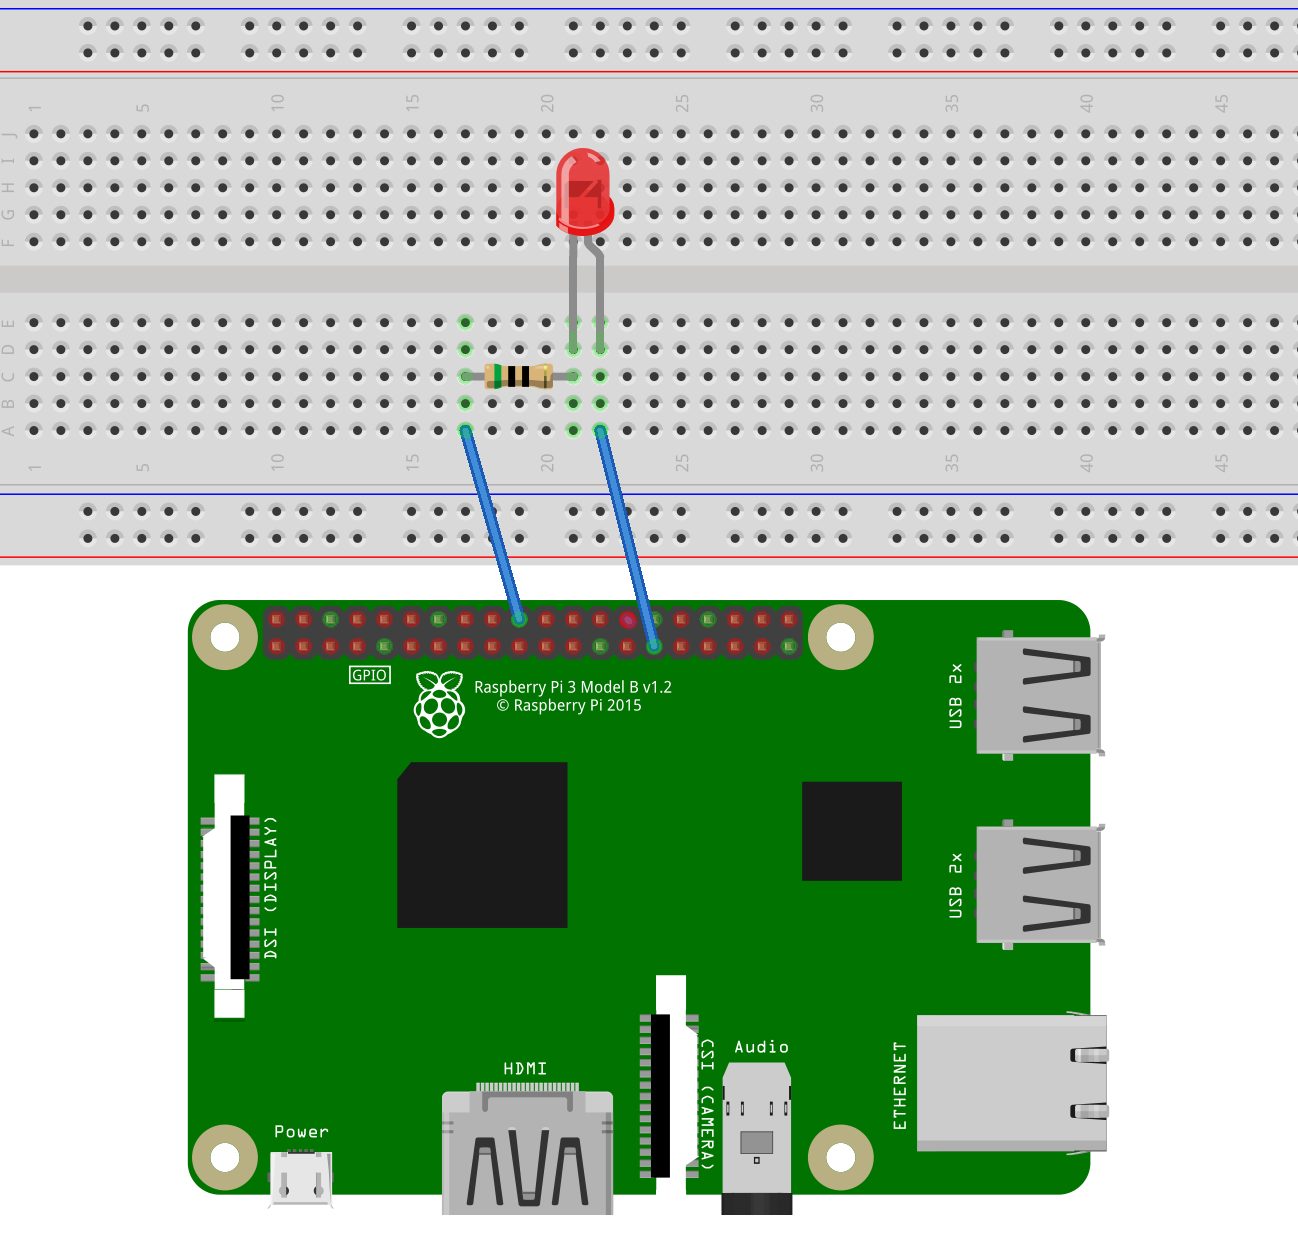
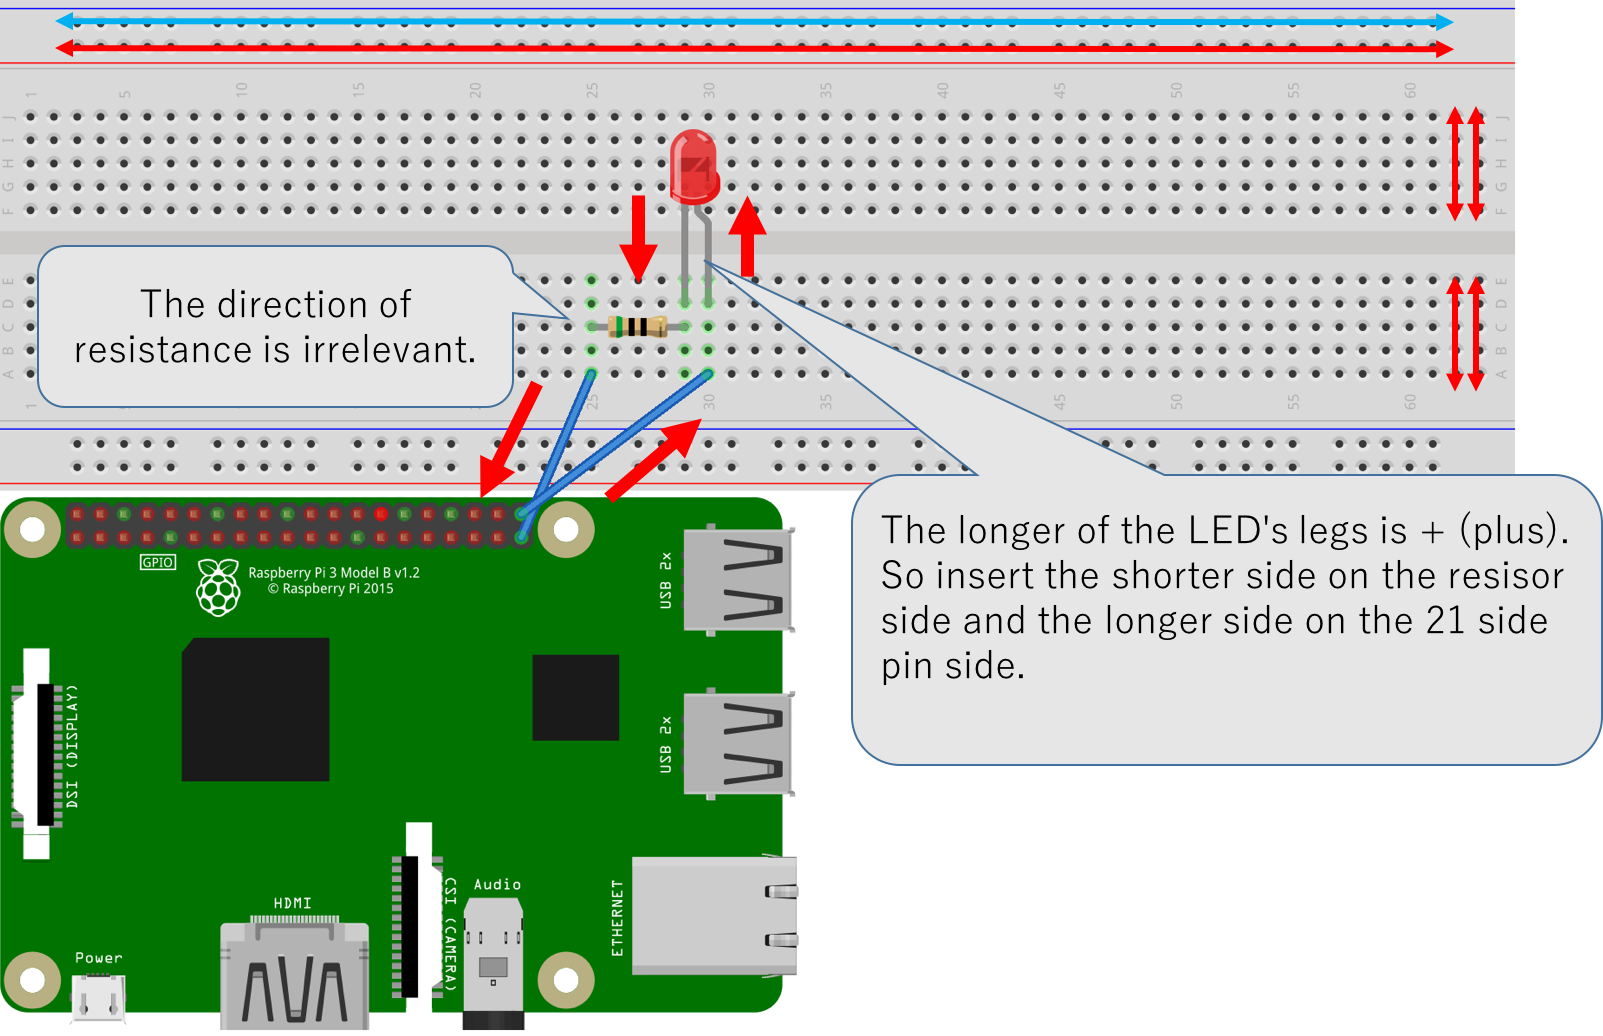
Fixed the illustration and description of the LED

diff --git a/document.md b/document.md
@@ -30,28 +30,34 @@ etc.
 ## Let's light the LED
 - Things to prepare
 bread board, 50Ω Resistor, LED, Jumper wire
+
+  ※About BreadBoard
+  Bread board is the substrate used for prototyping, experimentation, evaluation.
+  An electric signal flows in the direction of the arrow line in the following figure.
+  
   1. Connect as shown.
   ![pin_asign](./image/gpio.png)
   ↑Raspberry Pi3's pin assignment.
-  This time connect to GPIO5 and GND.
+  This time connect to GPIO21 and GND.
   ![LED](./image/LED.png)
-  ※The longer of the LED's legs is + (plus).
 
   2. Open Python3 IDLE [Menu]→[Programming]→[Python3(IDLE)]→[File]→[New File]
 
   3. Write the following code.
 
-          import RPi.GPIO as GPIO
-          import time
+  ```
+  import RPi.GPIO as GPIO
+  import time
 
-          GPIO.cleanup()
-          GPIO.setmode(GPIO.BCM)
-          GPIO.setup(5, GPIO.OUT)
-          while True:
-              GPIO.output(5, GPIO.HIGH)
-              time.sleep(1)
-              GPIO.output(5, GPIO.LOW)
-              time.sleep(1)
+  GPIO.cleanup()
+  GPIO.setmode(GPIO.BCM)
+  GPIO.setup(21, GPIO.OUT)
+  while True:
+  GPIO.output(21, GPIO.HIGH)
+  time.sleep(1)
+  GPIO.output(21, GPIO.LOW)
+  time.sleep(1)
+  ```
   4. [Run]→[Run Module] or push F5 key on keyboard.
     ※Warnings may be issued, but if the LEDs are blinking, you can ignore this time.
 
@@ -99,30 +105,31 @@ As a similar platform there are Kibana and Milkcocoa. These platforms can accumu
  ![apikey](./image/apikey.png)
 4. Open Python3 IDLE on raspberry pi and open [File] tab → [New file].
 5. Write the following code. Insert the Write API Key confirmed above into the Write_API_KEY below.
+  ```
+  from sense_hat import SenseHat
+  import urllib.parse
+  import urllib.request
+  import time
 
-        from sense_hat import SenseHat
-        import urllib.parse
-        import urllib.request
-        import time
+  sleep = 15 #Send a value every 15 seconds
+  key = "Write_API_KEY" #This White_API_KEY is your API Key
+  sense = SenseHat()
+  def send_data():
+      while True:
+          humidity = sense.get_humidity()
+          params = urllib.parse.urlencode({'Key': key, 'field1': humidity})
+          url = 'https://api.thingspeak.com/update?' + params
+          try:
+              f = urllib.request.urlopen(url)
+          except:
+              print("connection failed")
+          break
 
-        sleep = 15 #Send a value every 15 seconds
-        key = "Write_API_KEY"
-        sense = SenseHat()
-
-        def send_data():
-            while True:
-                humidity = sense.get_humidity()
-                params = urllib.parse.urlencode({'Key': key, 'field1': humidity})
-                url = 'https://api.thingspeak.com/update?' + params
-                try:
-                    f = urllib.request.urlopen(url)
-                except:
-                    print("connection failed")
-                break
-        if __name__ == "__main__":
-            while True:
-                send_data()
-                time.sleep(sleep)
+  if __name__ == "__main__": #two "_"
+      while True:
+          send_data()
+          time.sleep(sleep)
+  ```
 6. Set and save the file name.
 7. [Run]　→　[Run Module] or push F5 key.
 8. Confirm Private view on ThingSpeak.
